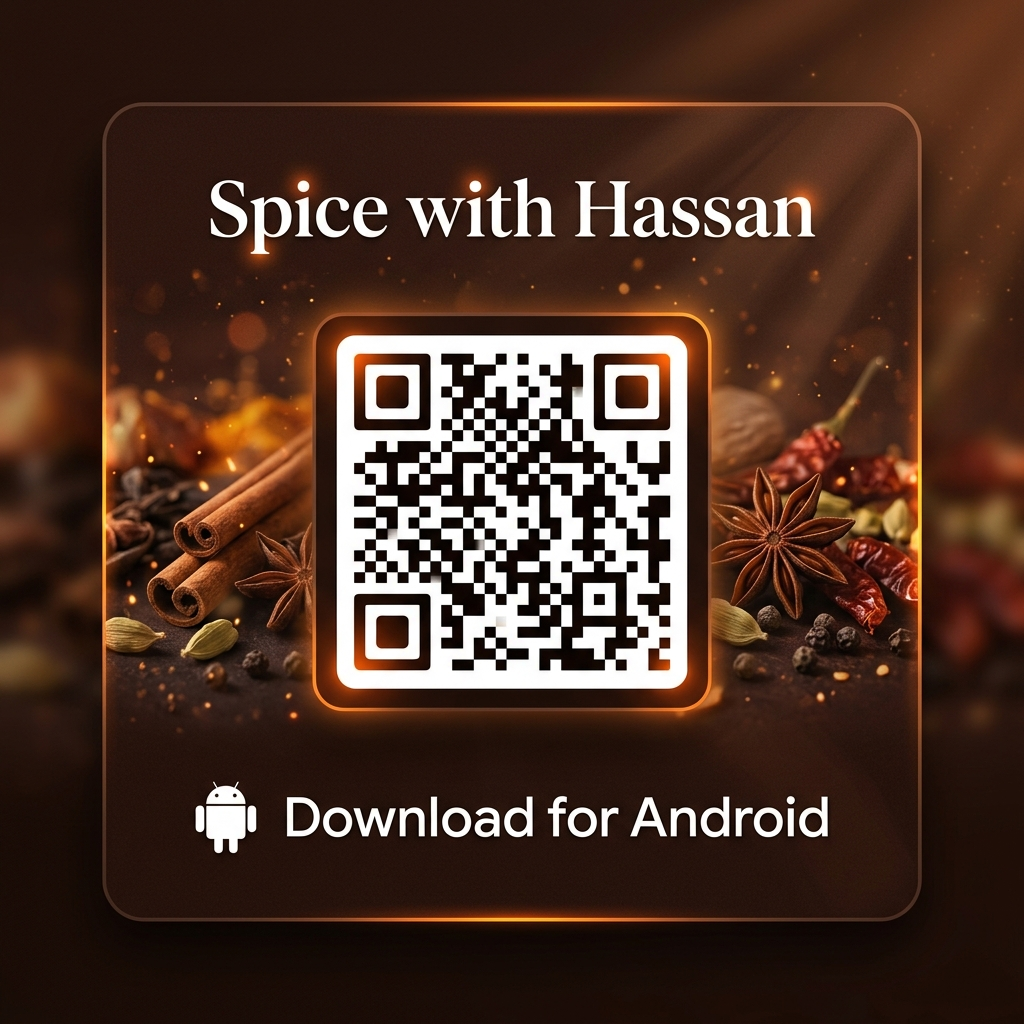
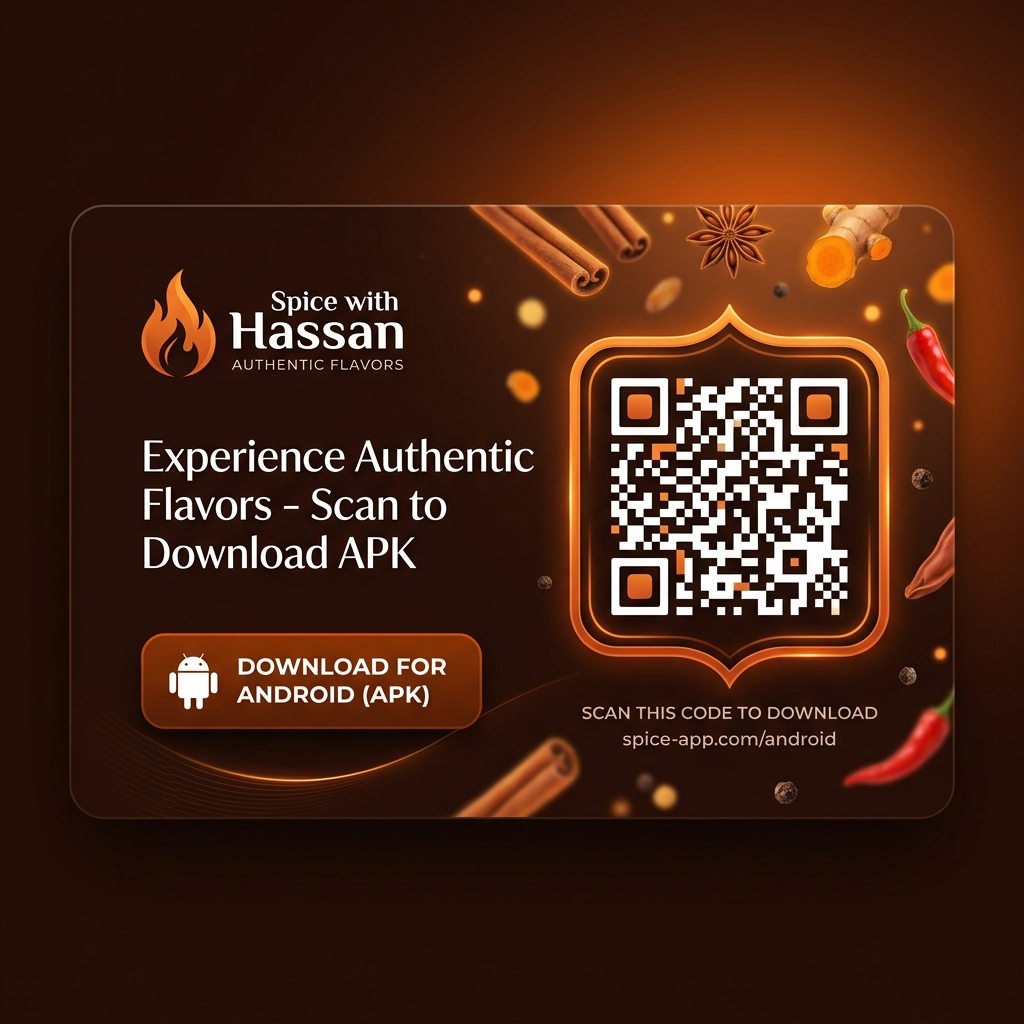
docs: add professional APK download card to README

diff --git a/README.md b/README.md
@@ -13,6 +13,18 @@
 
 ---
 
+## 📱 Download the App
+
+<p align="center">
+  <a href="https://expo.dev/artifacts/eas/bHR2pYTCxXDs1qdBc2zsVP.apk">
+    <img src="media/download_card.png" width="90%" />
+  </a>
+  <br />
+  <b><a href="https://expo.dev/artifacts/eas/bHR2pYTCxXDs1qdBc2zsVP.apk">📥 Click here to Download the Android APK</a></b>
+</p>
+
+---
+
 ## ✨ Key Features
 
 ### 🛒 Seamless Food Ordering
